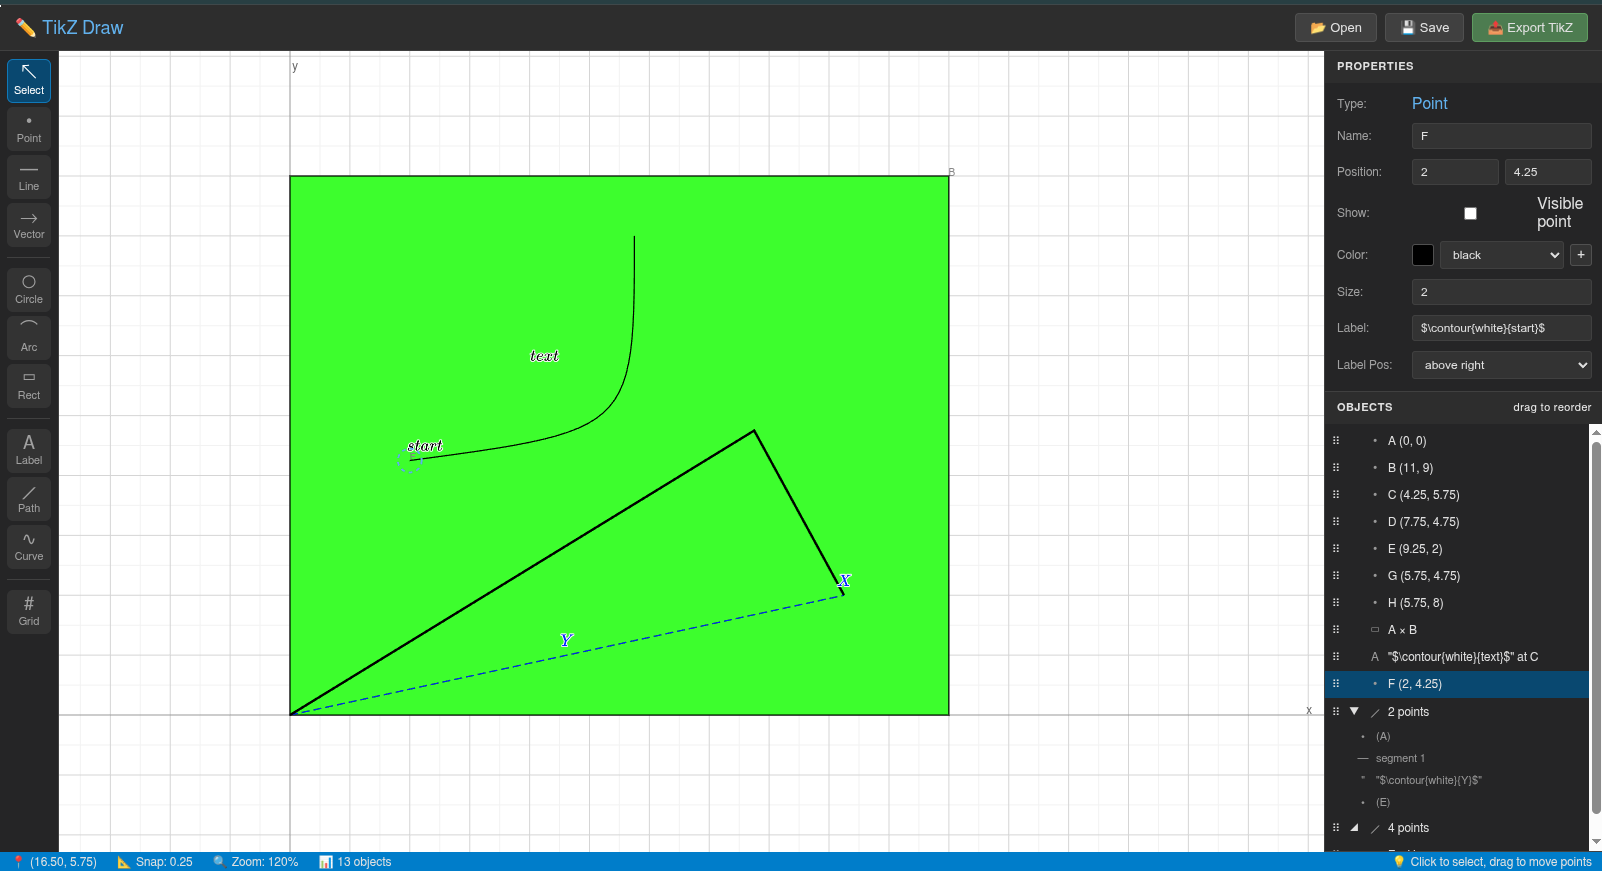
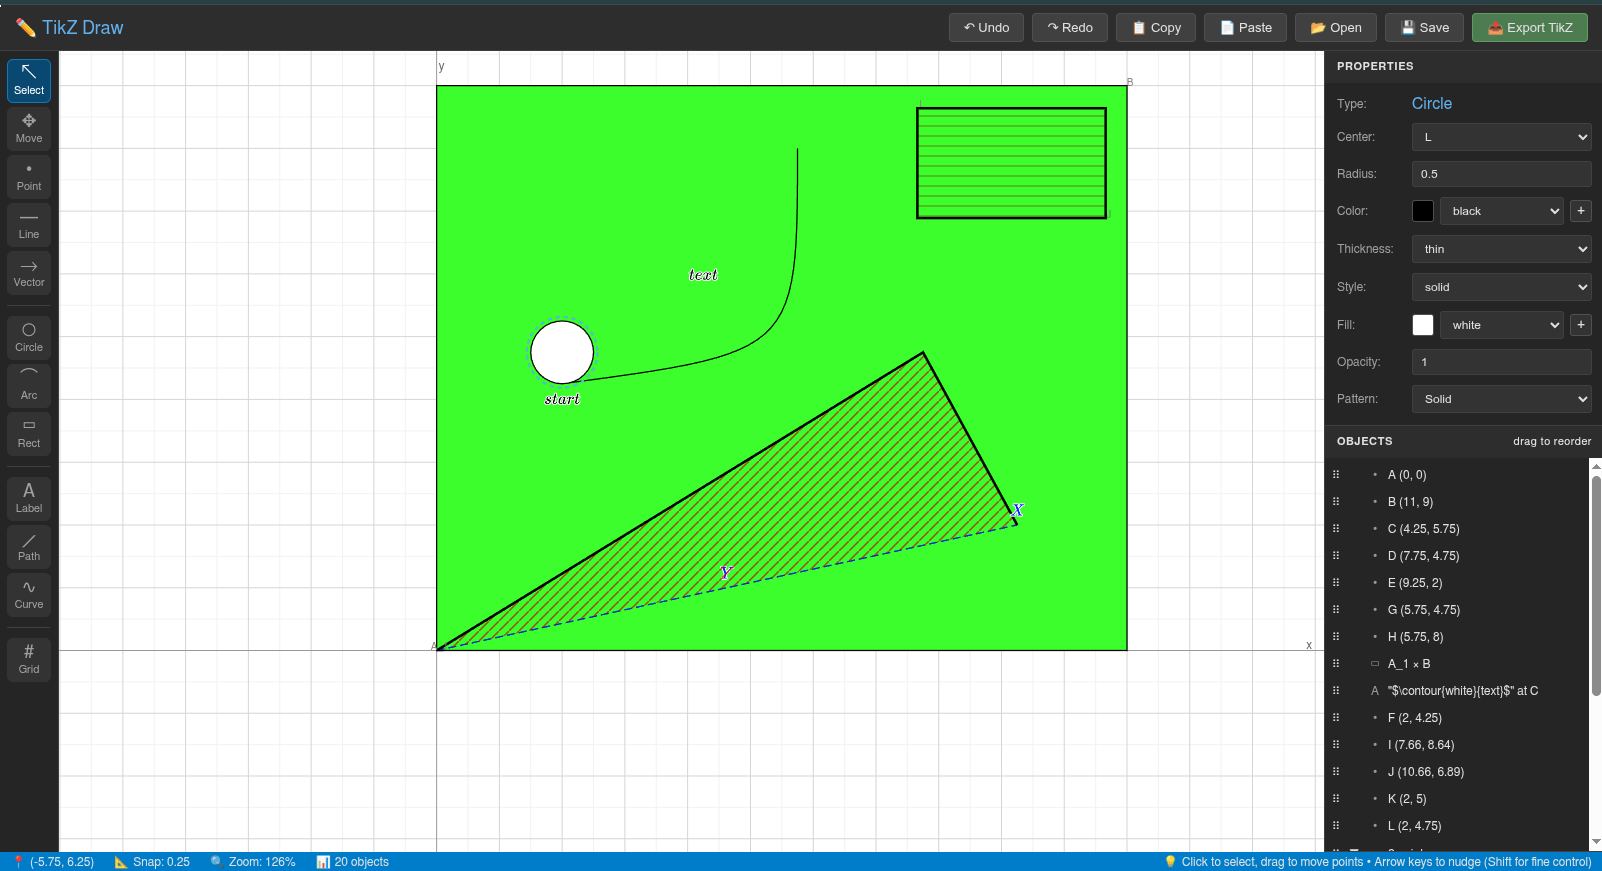
update documentation

diff --git a/README.md b/README.md
@@ -7,11 +7,16 @@ A browser-based visual editor for creating TikZ diagrams. Draw geometric shapes,
 ## Features
 
 - **Visual Drawing Tools**: Point, Line, Vector, Circle, Arc, Rectangle, Path, Bézier Curve, Label, and Grid
+- **Select & Move Tools**: Select objects with inside-click detection, or use Move tool for independent movement
 - **LaTeX Support**: Full MathJax rendering for labels and annotations
+- **Pattern Support**: 12 TikZ patterns (horizontal/vertical lines, grid, dots, stars, bricks, etc.) for filled objects
+- **Copy/Paste**: Duplicate objects with all properties preserved (Ctrl+C/Ctrl+V)
+- **Undo/Redo**: Full undo/redo support with 50-state history (Ctrl+Z/Ctrl+Y)
+- **Arrow Key Nudging**: Precise positioning with 0.1 unit (normal) or 0.01 unit (Shift) increments
 - **Clean TikZ Export**: Generates well-formatted, readable TikZ code
 - **Project Save/Load**: Save your work as JSON and continue later
-- **Customizable Styling**: Colors, line styles, thicknesses, arrow types, and more
-- **Snap to Grid**: Configurable grid snapping for precise positioning
+- **Customizable Styling**: Colors, line styles, thicknesses, arrow types, patterns, and more
+- **Snap to Grid**: Configurable grid snapping for precise positioning (0.25 units)
 - **Pan & Zoom**: Navigate large diagrams easily
 
 ## Getting Started
@@ -33,29 +38,34 @@ start tikz-draw.html      # Windows
 
 | Tool | Shortcut | Description |
 |------|----------|-------------|
-| Select | V | Select and move objects |
+| Select | V | Select and edit objects (click inside to select) |
+| Move | M | Move objects independently (auto-clones shared coordinates) |
 | Point | P | Create coordinate points |
 | Line | L | Draw line segments between points |
 | Vector | A | Draw arrows/vectors between points |
 | Circle | C | Draw circles (click center, drag radius) |
 | Arc | R | Draw circular arcs |
-| Rectangle | T | Draw rectangles |
-| Label | B | Add text/LaTeX labels at points |
-| Path | / | Draw multi-point paths |
-| Curve | ~ | Draw Bézier curves |
-| Grid | # | Add a coordinate grid |
+| Rectangle | B | Draw rectangles |
+| Label | T | Add text/LaTeX labels at points |
+| Path | H | Draw multi-point paths |
+| Curve | Q | Draw Bézier curves |
+| Grid | G | Add a coordinate grid |
 
 ## Basic Workflow
 
-1. **Create Points**: Select the Point tool and click on the canvas to place coordinate points. Each point gets a unique name (A, B, C, etc.)
+1. **Create Points**: Select the Point tool (P) and click on the canvas to place coordinate points. Each point gets a unique name (A, B, C, etc.)
 
-2. **Draw Shapes**: Use Line, Vector, Circle, or other tools. Most shapes reference existing points by name.
+2. **Draw Shapes**: Use Line (L), Vector (A), Circle (C), or other tools. Most shapes reference existing points by name.
 
-3. **Add Labels**: Use the Label tool to add text or LaTeX math at any point. Labels support full LaTeX syntax: `$\frac{a}{b}$`, `$\alpha + \beta$`, etc.
+3. **Add Labels**: Use the Label tool (T) to add text or LaTeX math at any point. Labels support full LaTeX syntax: `$\frac{a}{b}$`, `$\alpha + \beta$`, etc.
 
-4. **Style Objects**: Select any object to edit its properties in the right panel - colors, line styles, thickness, etc.
+4. **Style Objects**: Click inside any object to select it, then edit its properties in the right panel - colors, line styles, thickness, patterns, etc.
 
-5. **Export TikZ**: Click "Export TikZ" to generate LaTeX code you can copy into your document.
+5. **Move & Adjust**: Use the Move tool (M) to reposition objects, or use arrow keys to nudge selected objects for precise positioning.
+
+6. **Copy & Duplicate**: Copy objects with Ctrl+C and paste with Ctrl+V to quickly create duplicates.
+
+7. **Export TikZ**: Click "Export TikZ" (or Ctrl+E) to generate LaTeX code you can copy into your document.
 
 ## Navigation
 
@@ -69,7 +79,9 @@ Select any object to view and edit its properties:
 
 - **Points**: Position (x, y), name, visibility, color, label for export
 - **Lines/Vectors**: Start/end points, color, thickness, line style, embedded labels
-- **Circles**: Center, radius, stroke color, fill color, opacity
+- **Circles**: Center, radius, stroke color, fill color, opacity, pattern
+- **Rectangles**: Corners, stroke color, fill color, opacity, pattern
+- **Paths**: Points, closure, stroke color, fill color, opacity, pattern, line style
 - **Labels**: Position, text content, anchor position, color
 
 ## Embedded Labels
@@ -88,6 +100,25 @@ Available line styles for all stroke objects:
 - loosely dashed, densely dashed
 - loosely dotted, densely dotted
 - loosely dashdotted, densely dashdotted
+
+## Patterns
+
+TikZ pattern library support for filled objects (Circle, Rectangle, Path):
+
+- **Solid** - Standard fill (no pattern)
+- **Horizontal Lines** - Horizontal line pattern
+- **Vertical Lines** - Vertical line pattern
+- **NE Lines** - Diagonal lines (northeast)
+- **NW Lines** - Diagonal lines (northwest)
+- **Grid** - Grid pattern
+- **Crosshatch** - Crossed lines
+- **Dots** - Dot pattern
+- **Crosshatch Dots** - Dots with crosshatch
+- **Stars** - Five-pointed stars
+- **6-Point Stars** - Six-pointed stars
+- **Bricks** - Brick pattern
+
+Patterns use the fill color for pattern color. Export automatically includes `\usetikzlibrary{patterns}` note.
 
 ## Arrow Types (Vectors)
 
@@ -112,12 +143,15 @@ $\left[\frac{a}{b}\right]$         % Auto-sized brackets
 The exported TikZ code is clean and well-organized:
 
 ```latex
+% Note: If using patterns, add to preamble: \usetikzlibrary{patterns}
+
 \begin{tikzpicture}
 
 % Coordinates
 \coordinate (A) at (0, 0);
 \coordinate (B) at (3, 4);
 \coordinate (C) at (6, 0);
+\coordinate (D) at (3, 0);
 
 % Visible Points
 \fill (A) circle (2pt);
@@ -130,6 +164,9 @@ The exported TikZ code is clean and well-organized:
 % Vectors
 \draw[-Stealth] (A) -- (C);
 
+% Circles
+\draw[fill=blue, fill opacity=0.3, pattern=horizontal lines, pattern color=blue] (D) circle (1.5);
+
 % Labels
 \node[above] at (B) {$P$};
 
@@ -138,23 +175,71 @@ The exported TikZ code is clean and well-organized:
 
 ## Keyboard Shortcuts
 
-| Key | Action |
-|-----|--------|
+### Tools
+
+| Key | Tool |
+|-----|------|
 | V | Select tool |
+| M | Move tool |
 | P | Point tool |
 | L | Line tool |
 | A | Vector (Arrow) tool |
 | C | Circle tool |
 | R | Arc tool |
-| T | Rectangle tool |
-| B | Label tool |
-| / | Path tool |
-| ~ | Bézier Curve tool |
-| # | Grid tool |
-| Delete/Backspace | Delete selected object |
-| Arrow keys | Pan the canvas |
-| +/- | Zoom in/out |
-| Escape | Cancel current operation |
+| B | Rectangle tool |
+| T | Label tool |
+| H | Path tool |
+| Q | Bézier Curve tool |
+| G | Grid tool |
+
+### Editing
+
+| Key | Action |
+|-----|--------|
+| **Ctrl+C** | Copy selected object |
+| **Ctrl+V** | Paste (with 0.5 unit offset) |
+| **Ctrl+Z** | Undo |
+| **Ctrl+Y** or **Ctrl+Shift+Z** | Redo |
+| **Delete** / **Backspace** | Delete selected object |
+| **Escape** | Deselect / Cancel operation |
+
+### Nudging (when object selected)
+
+| Key | Action |
+|-----|--------|
+| **Arrow Keys** | Nudge 0.1 units |
+| **Shift + Arrow Keys** | Fine nudge 0.01 units |
+
+### Navigation
+
+| Key | Action |
+|-----|--------|
+| **Arrow keys** (no selection) | Pan the canvas |
+| **Mouse wheel** | Zoom in/out |
+| **+** / **-** | Zoom in/out |
+
+### File Operations
+
+| Key | Action |
+|-----|--------|
+| **Ctrl+S** | Save project |
+| **Ctrl+E** | Export to TikZ |
+
+**Note**: On macOS, use **Cmd** instead of **Ctrl** for all shortcuts.
+
+## Toolbar Buttons
+
+The toolbar at the top of the application provides quick access to common operations:
+
+- **↶ Undo** - Undo last action (disabled when nothing to undo)
+- **↷ Redo** - Redo last undone action (disabled when nothing to redo)
+- **📋 Copy** - Copy selected object (disabled when no object selected)
+- **📄 Paste** - Paste from clipboard (disabled when clipboard empty)
+- **📂 Open** - Load a saved project file
+- **💾 Save** - Save project as JSON file
+- **📤 Export TikZ** - Export as TikZ code
+
+Button states update automatically based on current selection and clipboard status.
 
 ## Project Files
 
@@ -167,11 +252,17 @@ Project files preserve all objects, positions, styles, and view settings.
 
 ## Tips
 
-- **Naming Points**: Points are automatically named A, B, C... You can rename them in the properties panel.
-- **Precise Positioning**: Use the coordinate inputs in the properties panel for exact values.
-- **Reordering**: Drag objects in the Objects list to change their draw order.
-- **Colors**: Use the color picker or enter custom hex colors. TikZ color names (red, blue, etc.) are supported.
-- **Point Labels**: Points can have both an editor name (shown in gray) and an export label (rendered in LaTeX).
+- **Inside-Click Selection**: Click anywhere inside objects (circles, rectangles, closed paths) to select them - no need to click on borders
+- **Move Tool**: Use the Move tool (M) to move objects independently. Shared coordinates are automatically cloned to prevent affecting other objects
+- **Quick Duplication**: Select an object, press Ctrl+C to copy, then Ctrl+V to paste. Paste multiple times to create multiple copies
+- **Fine Positioning**: After placing or pasting objects, use arrow keys to nudge them into exact positions (0.1 units normal, 0.01 units with Shift)
+- **Naming Points**: Points are automatically named A, B, C... You can rename them in the properties panel
+- **Precise Positioning**: Use the coordinate inputs in the properties panel for exact values, or use arrow key nudging for fine control
+- **Reordering**: Drag objects in the Objects list to change their draw order (z-index)
+- **Colors**: Use the color picker or enter custom hex colors. TikZ color names (red, blue, etc.) are supported
+- **Patterns**: Combine fill colors with patterns for visual variety. Pattern color matches the fill color
+- **Point Labels**: Points can have both an editor name (shown in gray) and an export label (rendered in LaTeX)
+- **Undo/Redo**: Don't worry about mistakes - every action can be undone with Ctrl+Z
 
 ## Browser Compatibility
 

diff --git a/LICENSE.md b/LICENSE.md
@@ -1,0 +1,21 @@
+MIT License
+
+Copyright (c) 2025 TikZ Draw Contributors
+
+Permission is hereby granted, free of charge, to any person obtaining a copy
+of this software and associated documentation files (the "Software"), to deal
+in the Software without restriction, including without limitation the rights
+to use, copy, modify, merge, publish, distribute, sublicense, and/or sell
+copies of the Software, and to permit persons to whom the Software is
+furnished to do so, subject to the following conditions:
+
+The above copyright notice and this permission notice shall be included in all
+copies or substantial portions of the Software.
+
+THE SOFTWARE IS PROVIDED "AS IS", WITHOUT WARRANTY OF ANY KIND, EXPRESS OR
+IMPLIED, INCLUDING BUT NOT LIMITED TO THE WARRANTIES OF MERCHANTABILITY,
+FITNESS FOR A PARTICULAR PURPOSE AND NONINFRINGEMENT. IN NO EVENT SHALL THE
+AUTHORS OR COPYRIGHT HOLDERS BE LIABLE FOR ANY CLAIM, DAMAGES OR OTHER
+LIABILITY, WHETHER IN AN ACTION OF CONTRACT, TORT OR OTHERWISE, ARISING FROM,
+OUT OF OR IN CONNECTION WITH THE SOFTWARE OR THE USE OR OTHER DEALINGS IN THE
+SOFTWARE.
